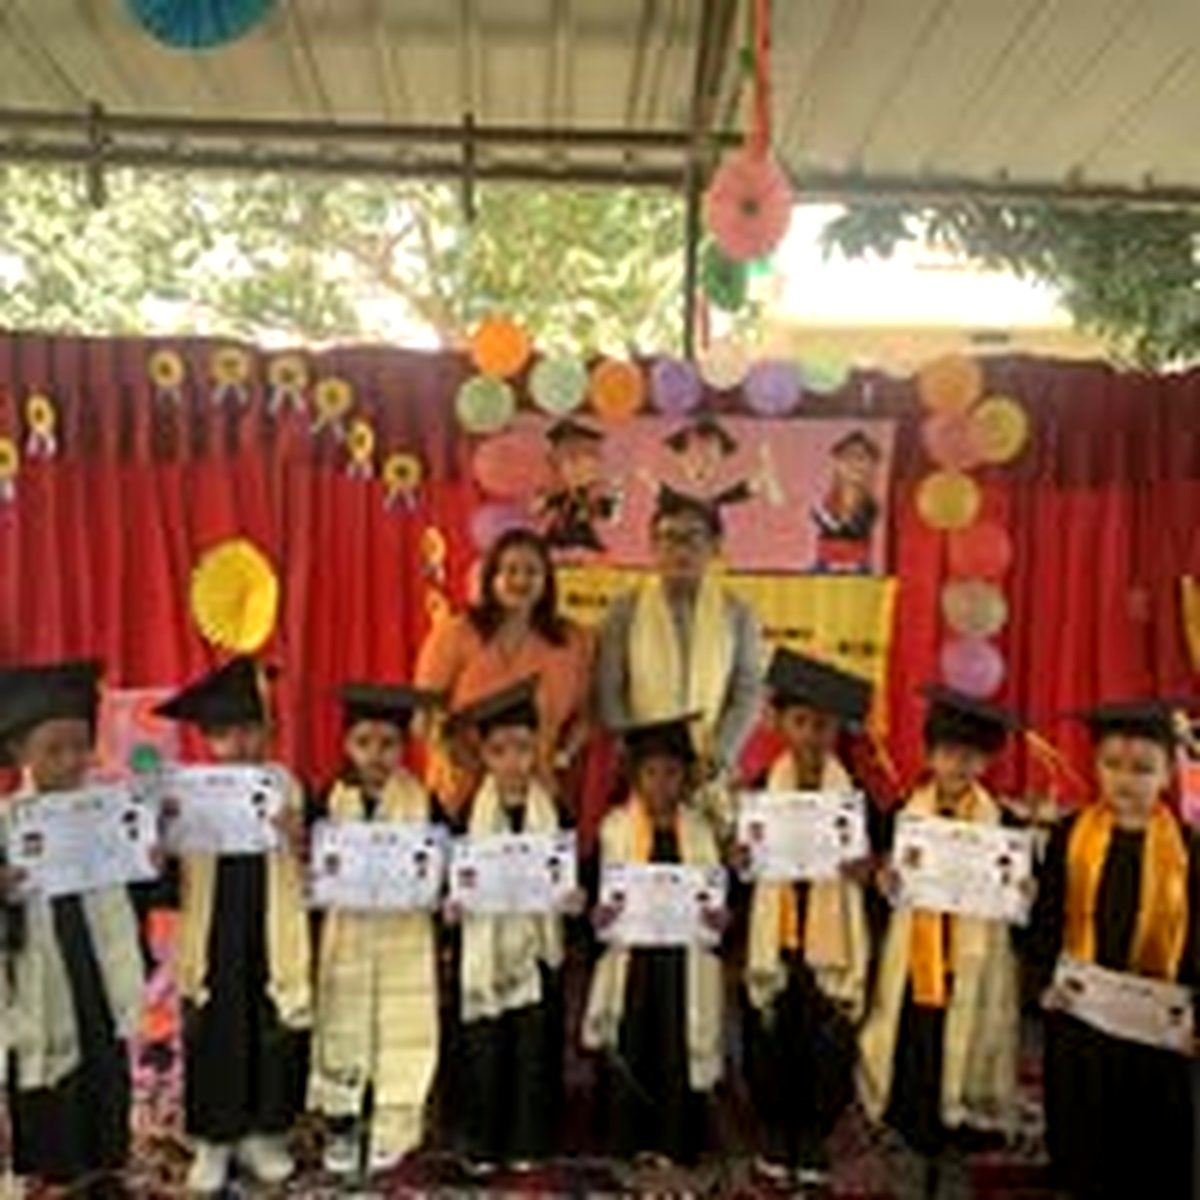
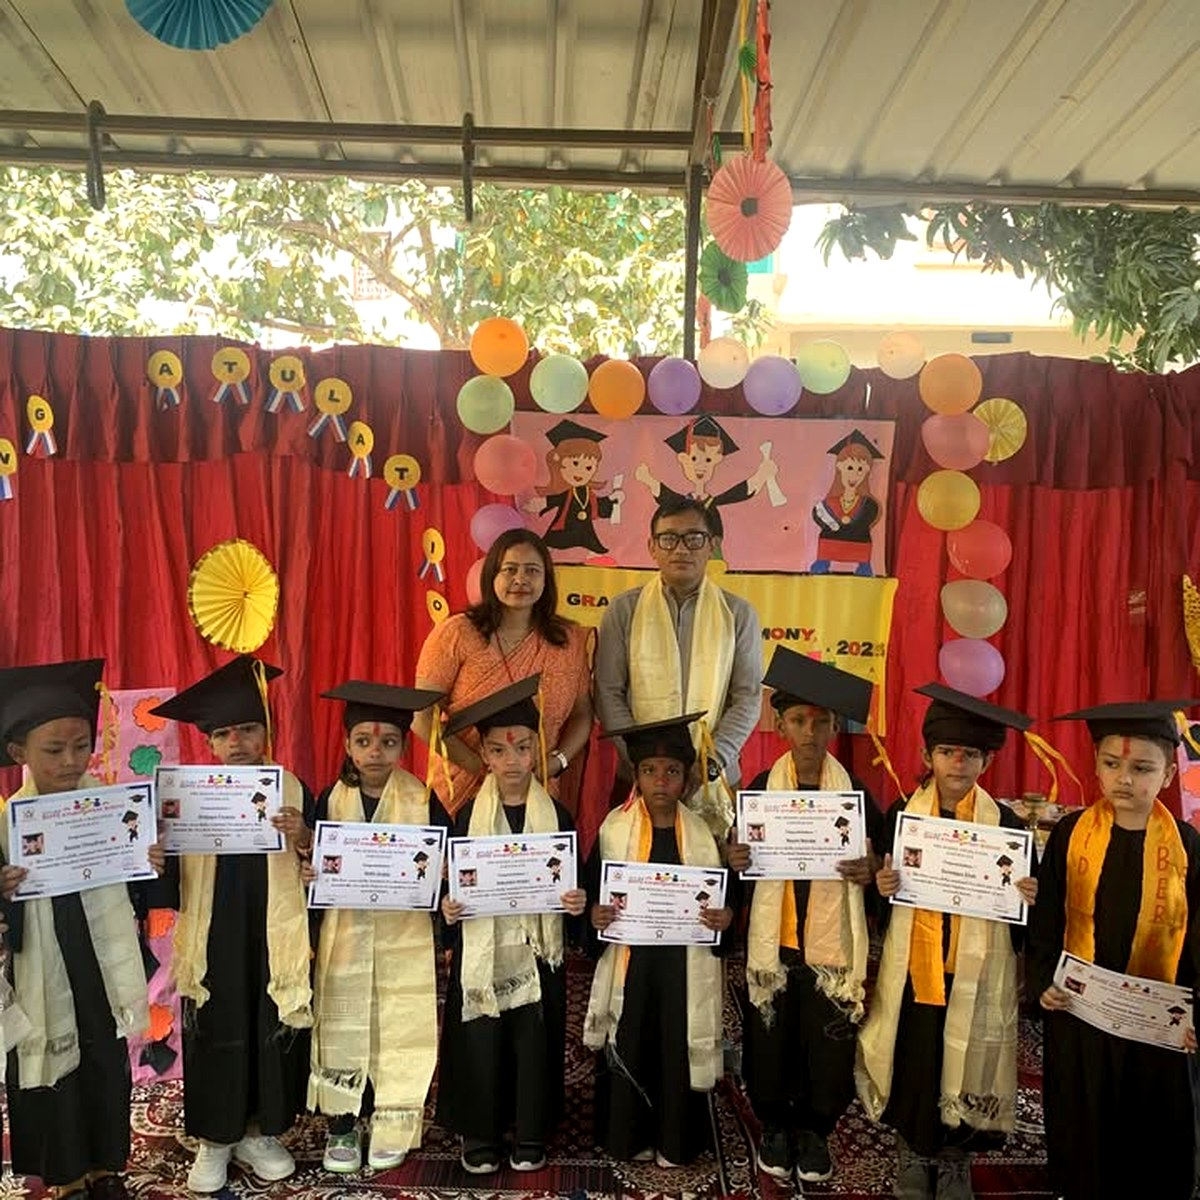
Replace all placeholder images and details with enhanced real social media photos and school info

diff --git a/src/data/site-data.ts b/src/data/site-data.ts
@@ -465,52 +465,52 @@ export const TESTIMONIALS: TestimonialItem[] = [
 
 export const TEAM_MEMBERS: TeamMember[] = [
   {
-    id: "sunita-koirala",
-    name: "Sunita Koirala",
-    role: "Founder & Principal",
-    qualification: "M.Ed. in Early Childhood Education, AMI Montessori Diploma",
-    experience: "14+ Years in Early Years Education",
-    bio: "Sunita founded Kids Berry Kindergarten School in Pichara, Biratnagar-11 with a clear promise: combine authentic Montessori learning with loving, CCTV-safe Daycare and fresh daily nutrition.",
+    id: "principal-director",
+    name: "School Principal & Director",
+    role: "Founder & Principal • Kids Berry Montessori",
+    qualification: "Educational Leadership & Montessori Administration",
+    experience: "Leading Kids Berry Academy (Pichara-11, Biratnagar)",
+    bio: "Dedicated to building a caring, child-friendly Montessori and primary learning environment in Pichara-11, Biratnagar where every child is treated as special and blossoms with confidence.",
     quote:
-      "When a child feels safe, nourished, and deeply loved, joyful learning unfolds naturally.",
-    image: "/images/team-1.jpg",
+      "Every child is a little star with endless dreams and boundless potential.",
+    image: "https://res.cloudinary.com/m2ns7bvs/image/upload/v1795514487/kids-berry/real-2083/fyvsymcpa5dbuah4fib8.jpg",
     accent: "magenta",
   },
   {
-    id: "anisha-shrestha",
-    name: "Anisha Shrestha",
-    role: "Lead Montessori Educator",
-    qualification: "B.Ed., Certified Montessori Directress (3–6 Years)",
-    experience: "8 Years Experience",
-    bio: "Anisha guides our Practical Life, Phonics, and Numeracy corners, empowering Junior and Senior KG learners to master concepts hands-on.",
+    id: "academic-coordinator",
+    name: "Academic & Montessori Coordinator",
+    role: "Lead Montessori & Primary Wing Coordinator",
+    qualification: "Montessori Diploma & Primary Curriculum Specialist",
+    experience: "Early Childhood & Primary Education (PG to Grade 2)",
+    bio: "Guides our classroom educators across Playgroup, Nursery, LKG, UKG, Grade 1, and Grade 2 to ensure joyful hands-on learning, graduation readiness, and personal attention.",
     quote:
-      "Every wooden block and bead tray invites a child to say, 'Look, I did it myself!'",
-    image: "/images/team-2.jpg",
+      "Where young minds blossom through love, curiosity, and joyful discovery.",
+    image: "https://res.cloudinary.com/m2ns7bvs/image/upload/v1795514487/kids-berry/real-2083/uqp1gnzvvtsigatcgduy.jpg",
     accent: "teal",
   },
   {
-    id: "priya-adhikari",
-    name: "Priya Adhikari",
-    role: "Playgroup & Daycare Coordinator",
-    qualification: "Diploma in Early Childhood Care & Child Nutrition",
-    experience: "6 Years Experience",
-    bio: "Known for her warm smile and gentle routines, Priya oversees toddler settling-in, cozy Daycare naps, and our daily fresh milk and fruit breaks.",
+    id: "early-years-lead",
+    name: "Early Years Montessori Educator",
+    role: "Playgroup, Nursery & Practical Life Lead",
+    qualification: "Trained Montessori & Early Childhood Educator",
+    experience: "Specialist in Toddler Settling-In & Sensory Care",
+    bio: "Nurtures our youngest Playgroup and Nursery learners with gentle settling-in routines, practical-life hygiene habits, sensory discovery, and loving personal care.",
     quote:
-      "Little learners thrive best on unhurried warmth, healthy tummies, and familiar loving faces.",
-    image: "/images/team-3.jpg",
+      "A warm smile and patient guidance make school feel like a second home.",
+    image: "https://res.cloudinary.com/m2ns7bvs/image/upload/v1795514488/kids-berry/real-2083/rnmwsjfuzsvqttde3su8.jpg",
     accent: "coral",
   },
   {
-    id: "deepa-thapa",
-    name: "Deepa Thapa",
-    role: "Creative Arts & After-Class Care Lead",
+    id: "cultural-activity-lead",
+    name: "Cultural & Student Activity Lead",
+    role: "Creative Arts, Festivals & After-Class Care Educator",
     qualification:
-      "B.A. Fine Arts & Early Childhood Storytelling Certification",
-    experience: "7 Years Experience",
-    bio: "Deepa leads painting, music, bilingual stories, and our engaging 3:00 PM – 5:00 PM After-Class Care afternoons filled with calm play and creativity.",
+      "Early Childhood Arts, ECA & Daycare Specialist",
+    experience: "Coordinating ECA, Festivals & Extended Daycare",
+    bio: "Brings every school day alive with art easels, coordination games, Nepali cultural celebrations (Dashain, Teej, Janmashtami, Children’s Day), and caring afternoon daycare.",
     quote:
-      "Afternoons at Kids Berry feel just like cozy playtime at grandma's warm house.",
-    image: "/images/team-4.jpg",
+      "Learn, play, and grow — celebrating every milestone together as a school family.",
+    image: "https://res.cloudinary.com/m2ns7bvs/image/upload/v1795514488/kids-berry/real-2083/bccikn1qilwfe8awgqs5.jpg",
     accent: "blue",
   },
 ];
@@ -1100,6 +1100,22 @@ export const AGE_ELIGIBILITY: AgeEligibilityRow[] = [
     cutOffNote: "Completed 4.5 years at start of session",
     sessionTiming: "9:00 AM – 3:00 PM (Care till 5 PM)",
     accent: "blue",
+  },
+  {
+    id: "grade-1",
+    program: "Grade 1 (Class One — Primary Wing)",
+    ageRange: "5.5 – 7.0 Years",
+    cutOffNote: "Completed Senior KG (UKG) or 5.5+ years at start of session",
+    sessionTiming: "9:00 AM – 3:00 PM (Care till 5 PM)",
+    accent: "teal",
+  },
+  {
+    id: "grade-2",
+    program: "Grade 2 (Class Two — Primary Wing)",
+    ageRange: "6.5 – 8.0 Years",
+    cutOffNote: "Completed Grade 1 or 6.5+ years at start of session",
+    sessionTiming: "9:00 AM – 3:00 PM (Care till 5 PM)",
+    accent: "orange",
   },
 ];
 
